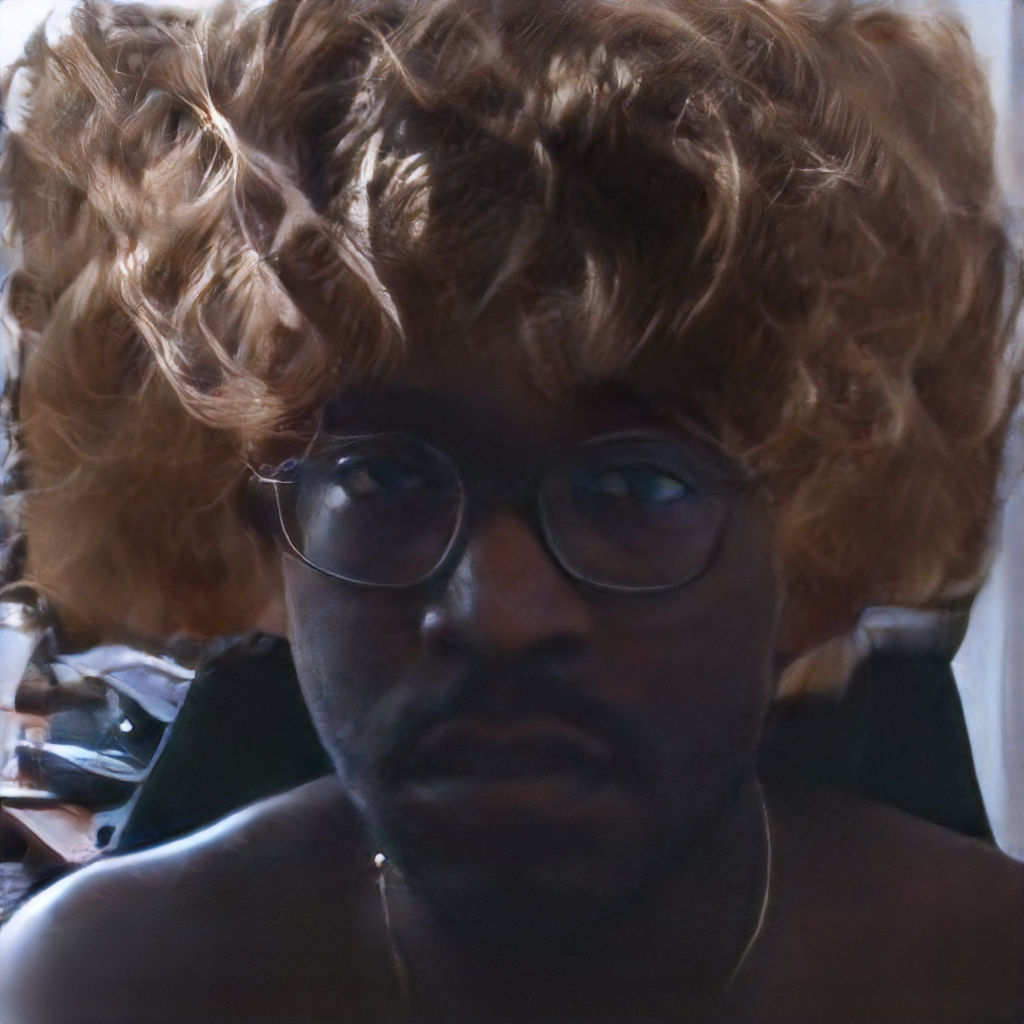
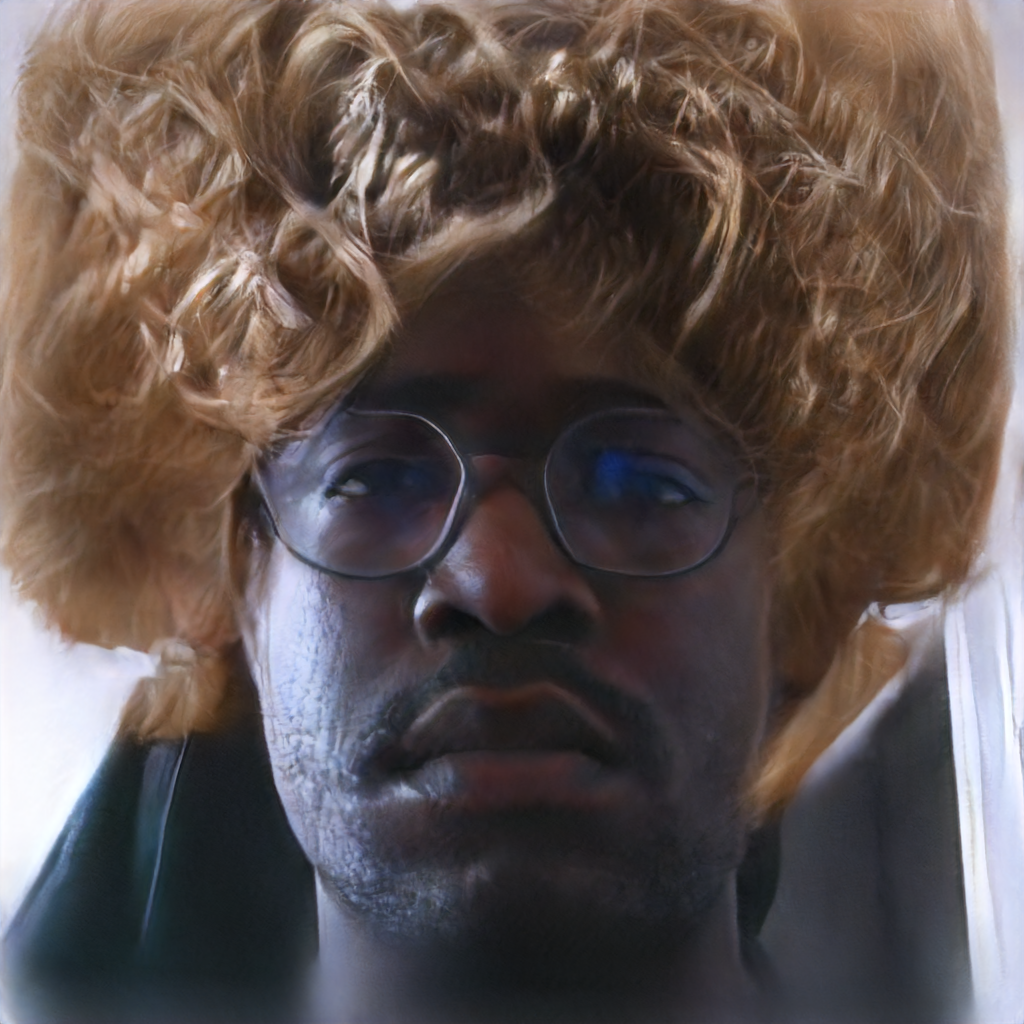
Ajoute des références de forme haute résolution et teste 4 textures
- refs/shape_*.jpg : références Pexels haute résolution (visage frontal
  net) pour le module de forme de HairFastGAN — les miniatures 220x220
  d'origine (refs/texture_*.jpg, gardées comme référence de couleur)
  ne donnaient quasiment aucune différence de silhouette d'une texture
  à l'autre.
- HairFastGAN/run_shapes.py : génère un rendu par texture (forme =
  référence Pexels, couleur = photo produit d'origine).
- compare_formes.py : planche comparative éclaircie (photo source à
  contre-jour + couleur noire naturelle -> rendu très sombre sans ça).
- images/moi.jpg : nouvelle photo, mieux éclairée sur le visage.
- Purge 7 photos WhatsApp orphelines dans images/, restes de l'ancienne
  version mono-fichier jamais nettoyés lors du remplacement précédent.
- .gitignore : ajoute .claude/ (état d'outil local, pas du code).

diff --git a/compare_formes.py b/compare_formes.py
@@ -1,0 +1,55 @@
+"""
+Assemble une planche comparative des rendus de forme HairFastGAN
+(results/forme_*.png), éclaircis pour rendre la silhouette lisible malgré
+la photo source à contre-jour (cheveux/visage naturellement sombres).
+"""
+import os
+from PIL import Image, ImageDraw, ImageFont, ImageEnhance, ImageOps
+
+OUT_DIR = "results"
+
+SHAPES = [
+    ("forme_lisse", "Lisse"),
+    ("forme_ondulee", "Ondulée"),
+    ("forme_tres_ondulee", "Très ondulée"),
+    ("forme_curly", "Curly"),
+]
+
+
+def brighten(im):
+    im = ImageOps.autocontrast(im, cutoff=1)
+    im = ImageEnhance.Brightness(im).enhance(1.8)
+    return ImageEnhance.Contrast(im).enhance(1.15)
+
+
+def label_strip(images, labels, out_path):
+    w, h = images[0].size
+    pad, bar = 8, 44
+    strip = Image.new("RGB", (w * len(images) + pad * (len(images) + 1), h + bar + pad * 2), "#16151c")
+    draw = ImageDraw.Draw(strip)
+    try:
+        font = ImageFont.truetype("arial.ttf", 26)
+    except Exception:
+        font = ImageFont.load_default()
+    x = pad
+    for im, label in zip(images, labels):
+        strip.paste(im, (x, bar + pad))
+        draw.text((x + 6, 10), label, fill="#f2f0f5", font=font)
+        x += w + pad
+    strip.save(out_path)
+
+
+def main():
+    images, labels = [], []
+    for name, label in SHAPES:
+        path = os.path.join(OUT_DIR, f"{name}.png")
+        im = brighten(Image.open(path).convert("RGB"))
+        images.append(im)
+        labels.append(label)
+    out_path = os.path.join(OUT_DIR, "comparaison_formes.jpg")
+    label_strip(images, labels, out_path)
+    print("->", out_path)
+
+
+if __name__ == "__main__":
+    main()
